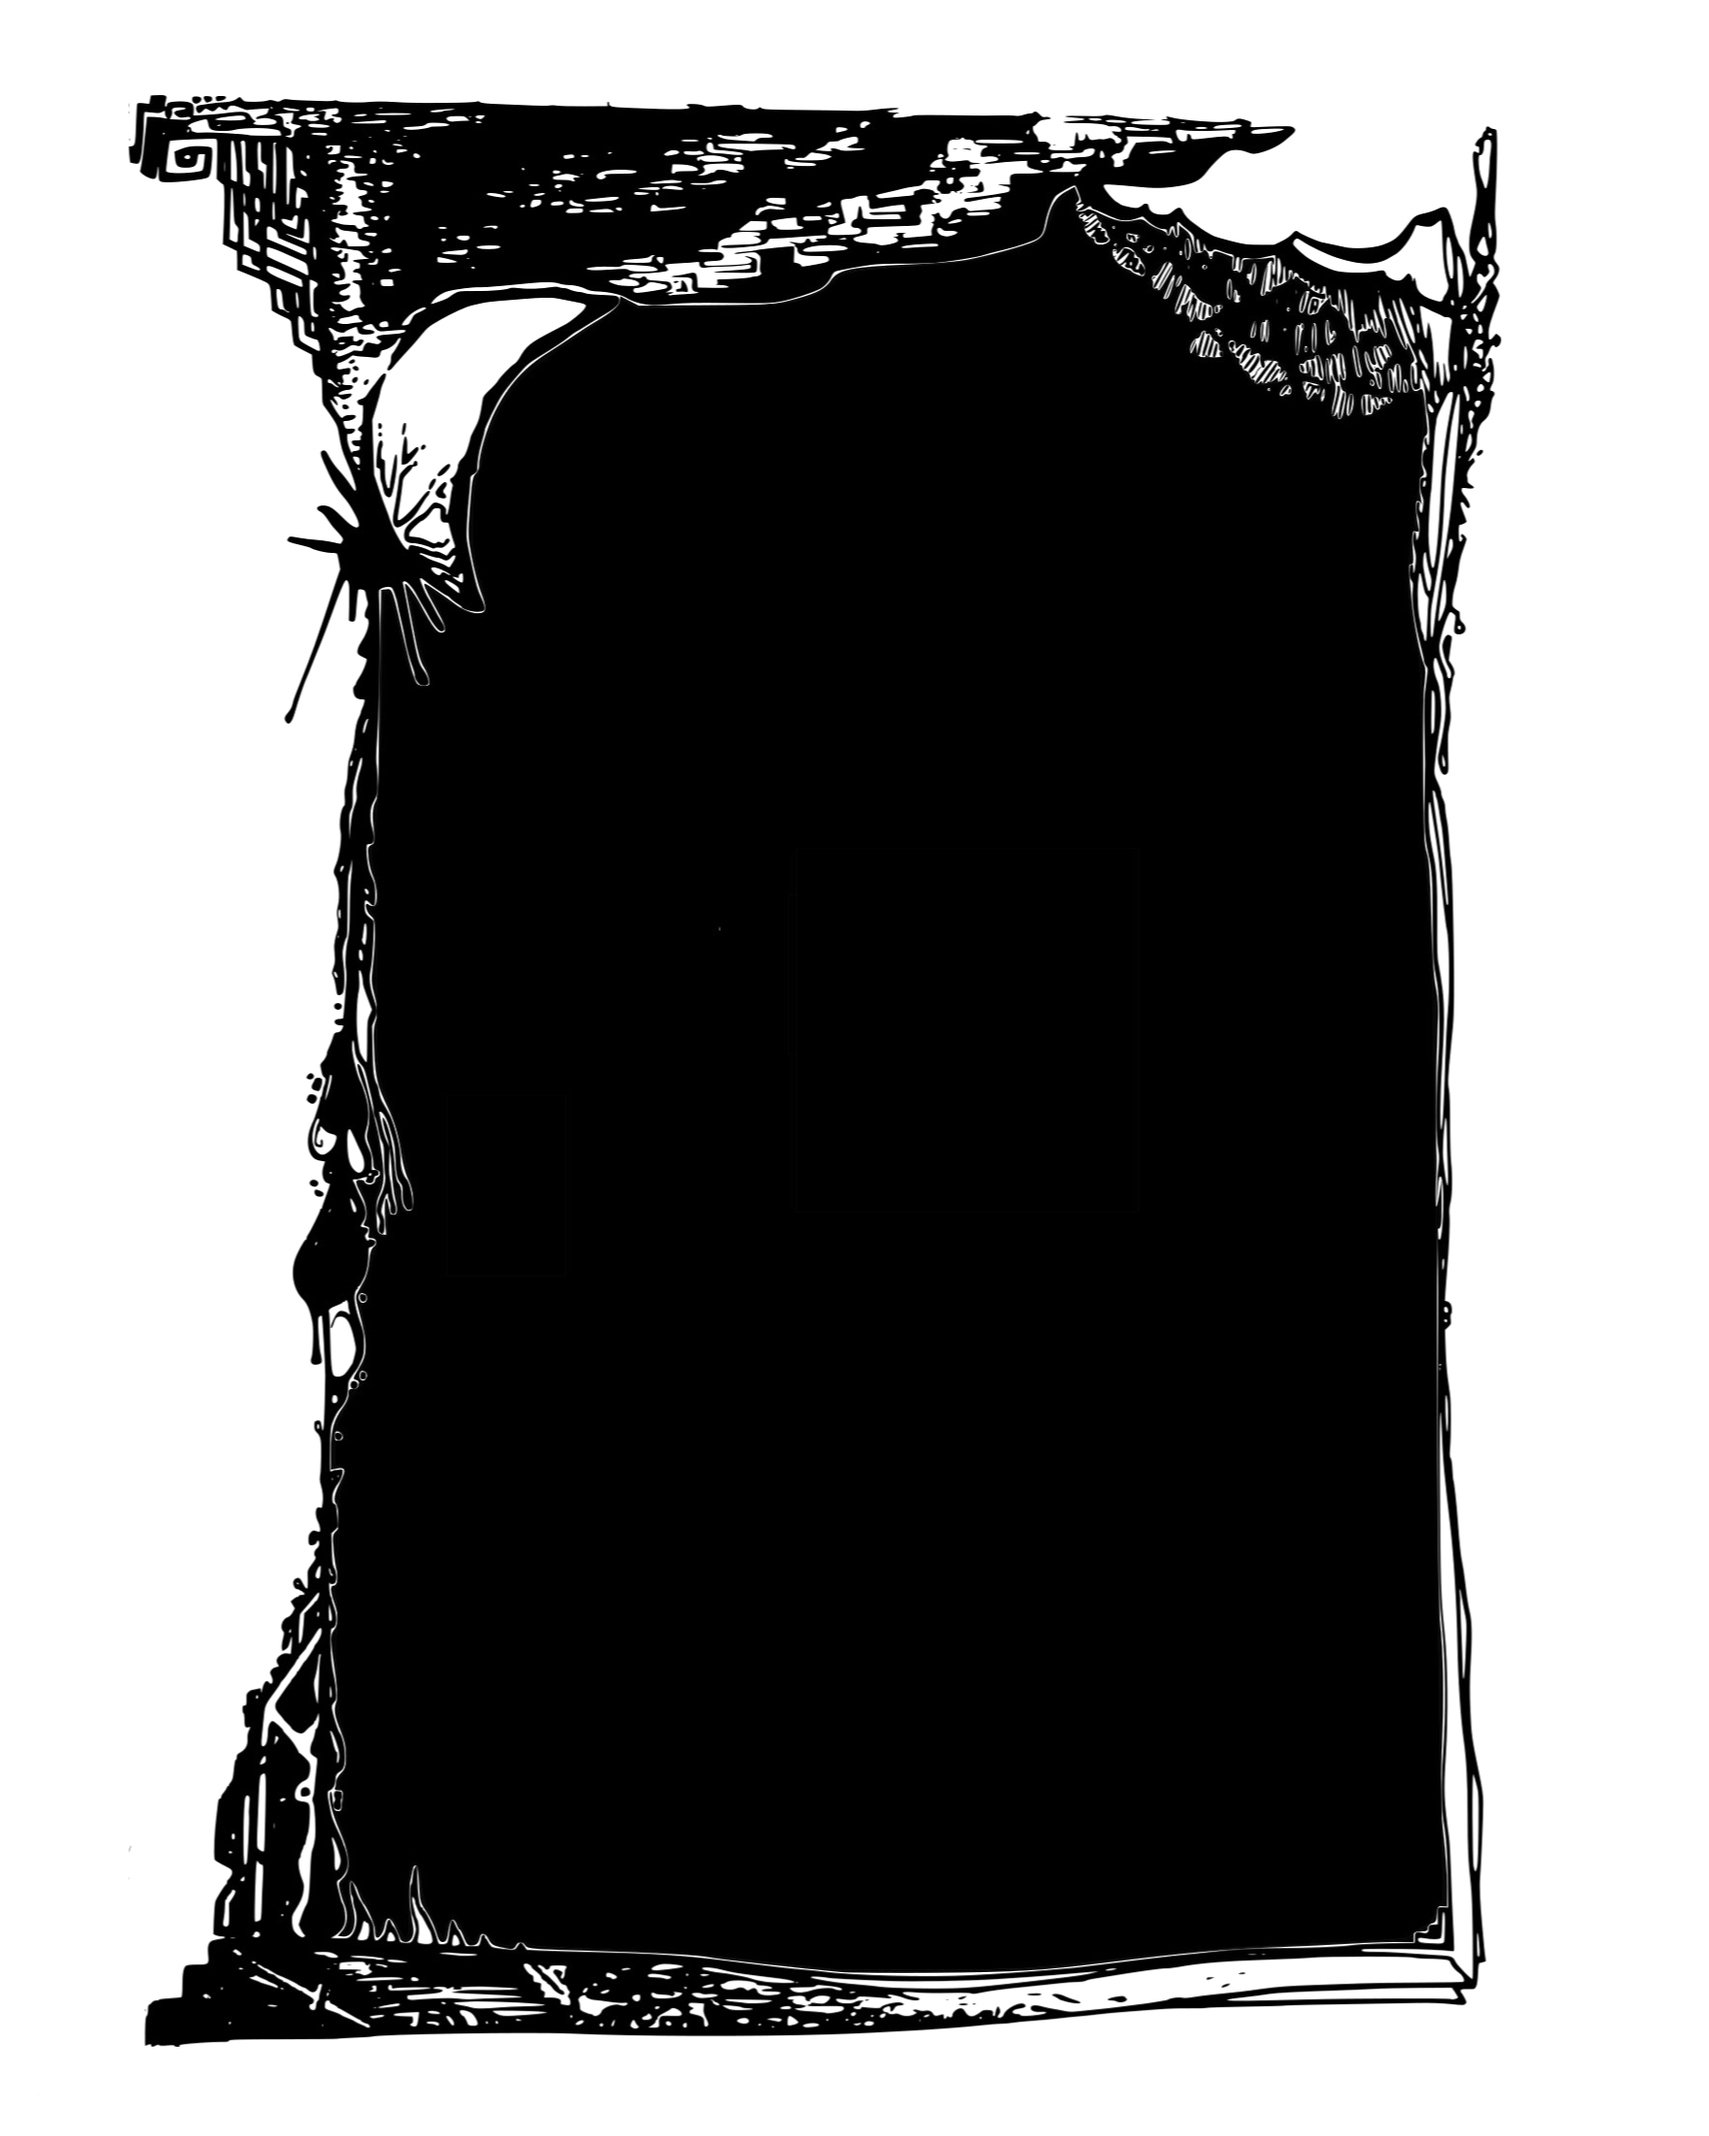
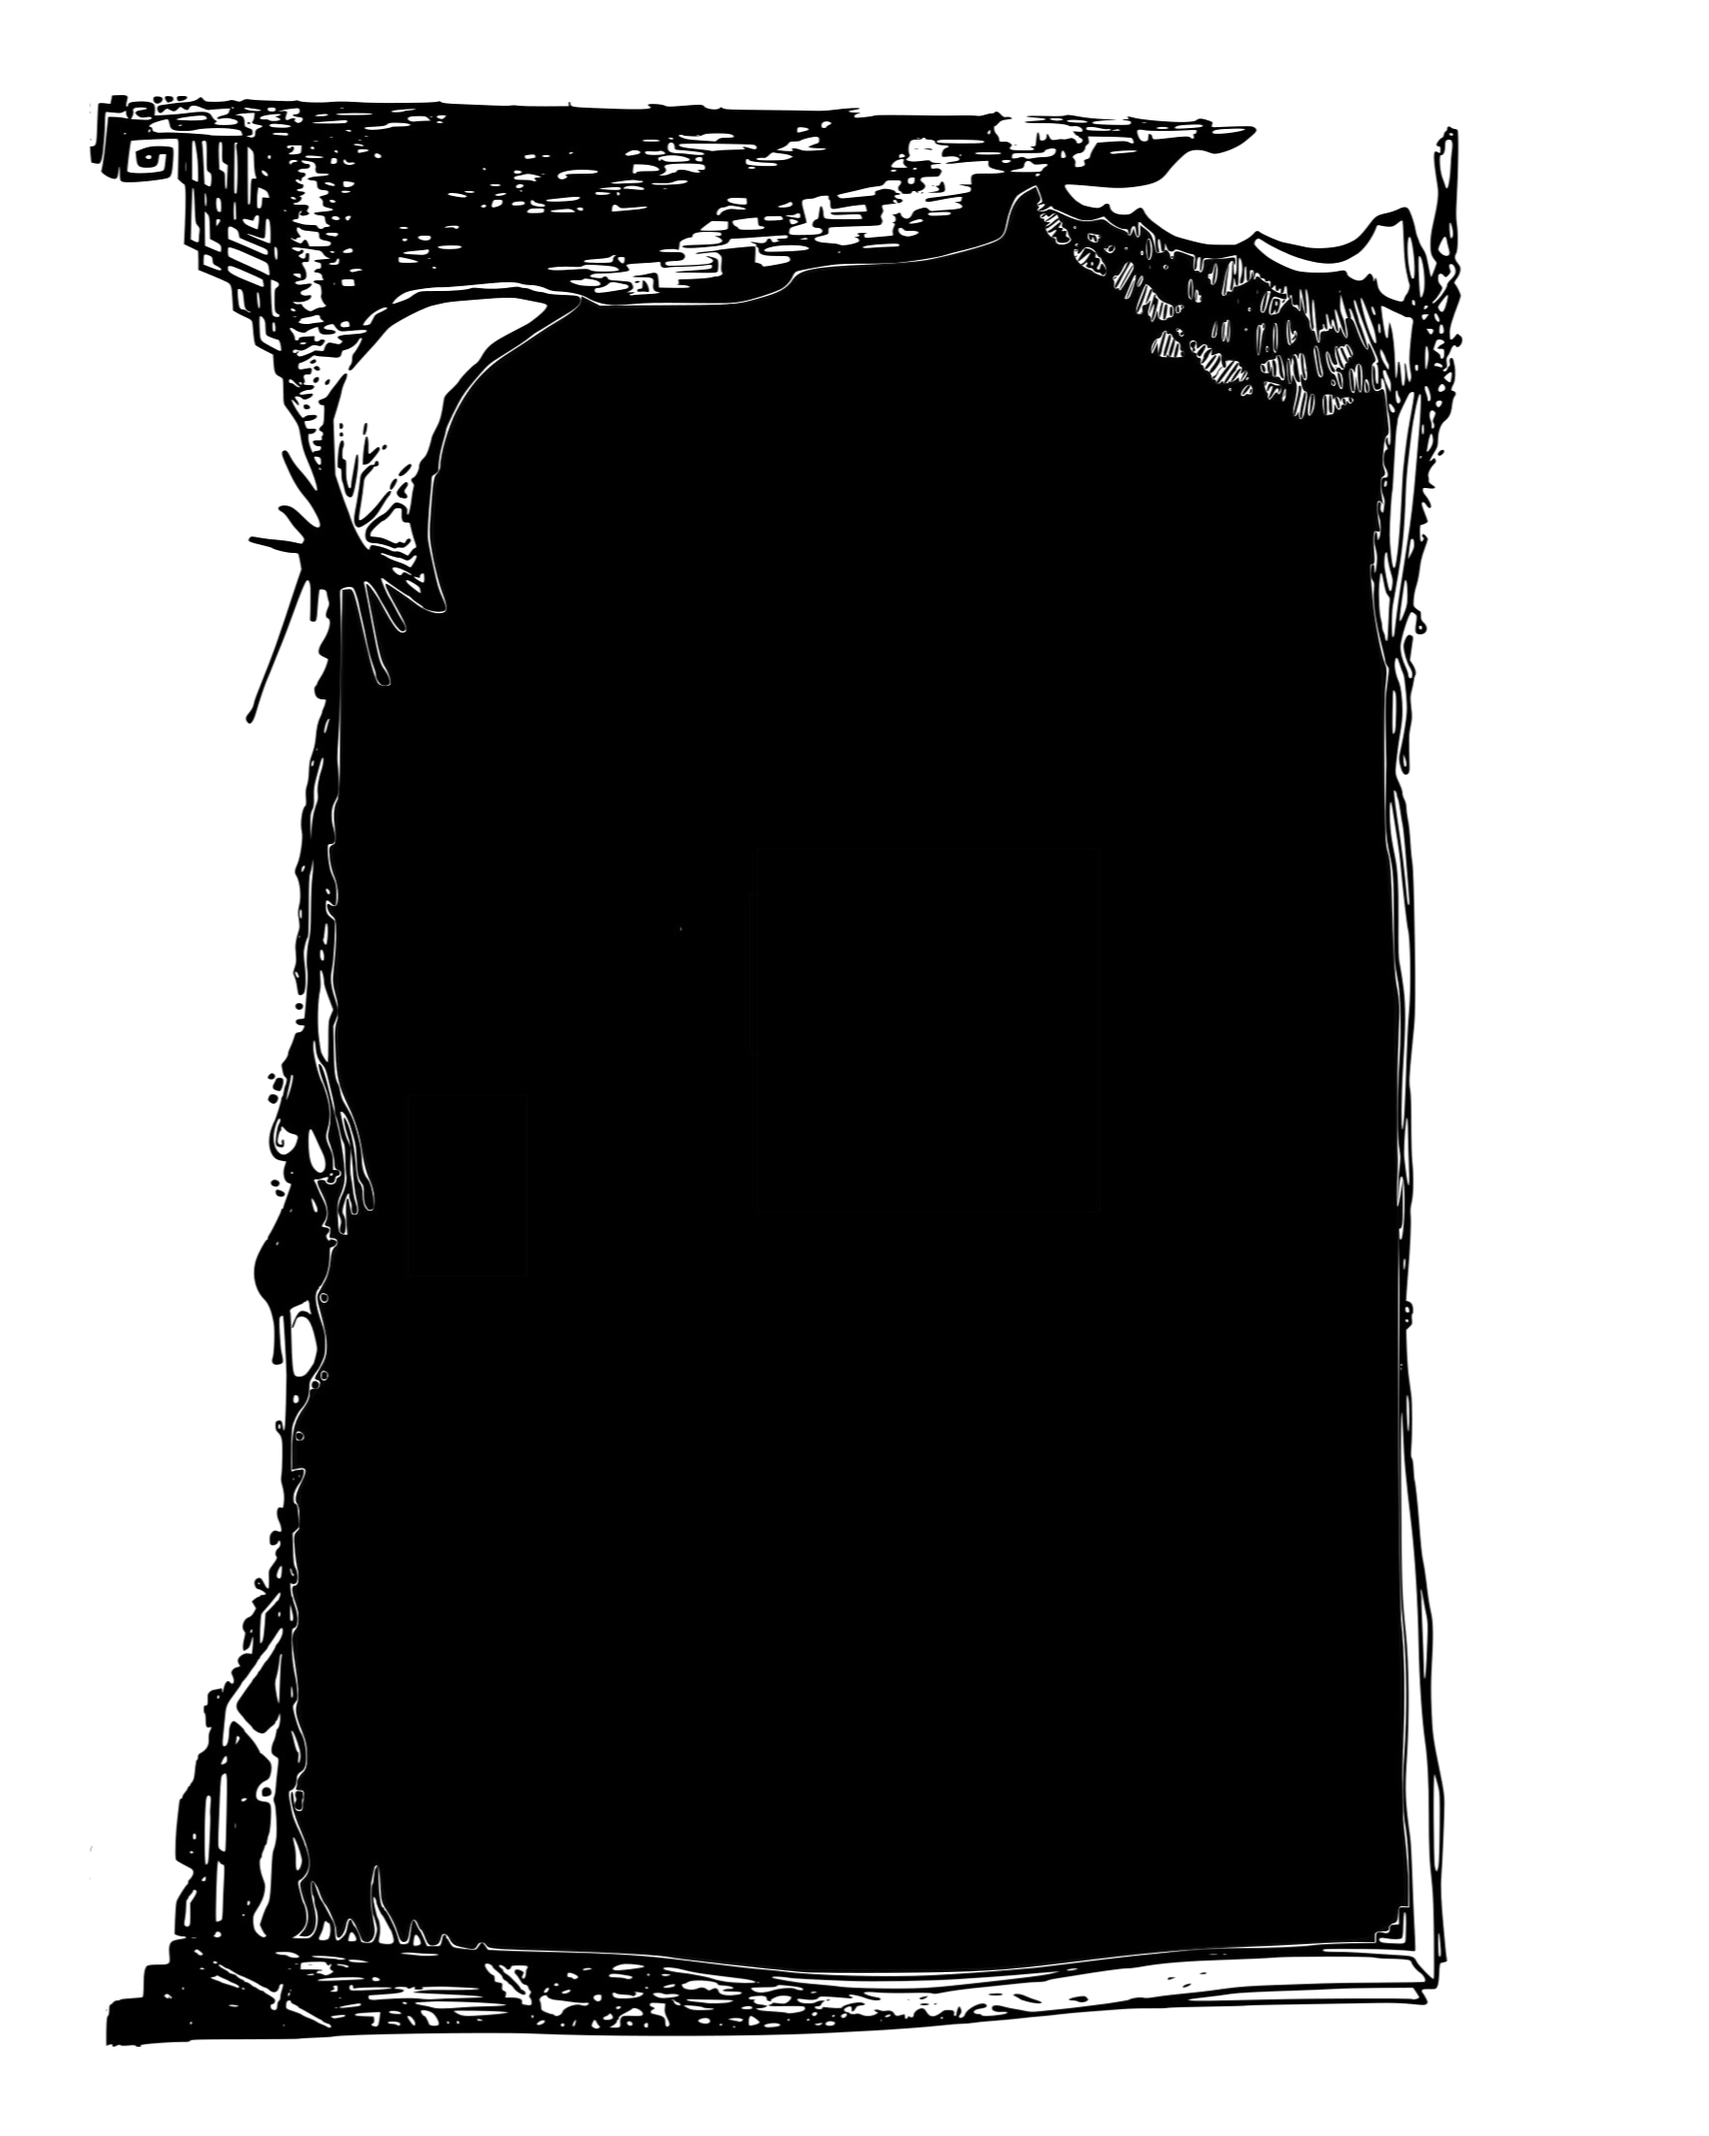
Enlarge flyingx, codex figure, TV; shift audio frame left more
flyingx, the codex corner figure, and the video-page TV drawing
are sized up further. The audio frame artwork shifted another 40px
left so the player has more clearance from the spike decoration,
without touching the player's own position/size.

Changed region(s): [[0.0312, 0.0309, 0.874, 0.9573]]

diff --git a/styles.css b/styles.css
@@ -145,9 +145,9 @@ body.audio-page .frame-page { width: min(96vw, 1350px); }
    mix-blend-mode:multiply - le fond blanc du jpg scanné devient transparent
    (se fond dans la couleur de fond de la page, quelle qu'elle soit) tandis
    que le trait noir reste noir. */
-.codex-figure { position: absolute; left: 15%; bottom: 14%; width: 14%; height: auto; z-index: 1; mix-blend-mode: multiply; }
+.codex-figure { position: absolute; left: 15%; bottom: 14%; width: 16%; height: auto; z-index: 1; mix-blend-mode: multiply; }
 @media (max-width: 640px) {
-  .codex-figure { width: 20%; left: 15%; bottom: 14%; }
+  .codex-figure { width: 23%; left: 15%; bottom: 14%; }
 }
 
 /* les liens de contact doivent toujours tenir sur une seule ligne : une
@@ -177,7 +177,7 @@ body.audio-page .frame-page { width: min(96vw, 1350px); }
   position: relative; width: 100%; max-width: 950px; margin: 0 auto; flex-shrink: 0;
   aspect-ratio: 1762 / 2202;
   border-radius: 6px;
-  background-image: url(audio-frame.png?v=3);
+  background-image: url(audio-frame.png?v=4);
   background-repeat: no-repeat;
   background-size: 100% 100%;
 }
@@ -245,7 +245,7 @@ body.audio-page .frame-page { width: min(96vw, 1350px); }
 @media (min-width: 640px) { .rider-grid { grid-template-columns: 1.3fr 1fr; align-items: start; } }
 .press-byline { text-align: right; color: #555; font-style: italic; font-size: .8rem; margin: 1.5rem 0 0; }
 /* posé sous la fiche technique, dans sa colonne. */
-.flyingx { display: block; width: clamp(80px, 14vw, 160px); height: auto; margin: 2rem auto 0; }
+.flyingx { display: block; width: clamp(92px, 16vw, 184px); height: auto; margin: 2rem auto 0; }
 
 /* page video : silhouettes qui tombent (reprises du dessin de la page
    audio) à gauche, télé (cassée, écran-crâne) serrée à droite avec le lien
@@ -255,7 +255,7 @@ body.audio-page .frame-page { width: min(96vw, 1350px); }
    tombe exactement sur le bord droit du cadre des oiseaux. */
 .video-top-row { width: 100%; max-width: min(90%, 610px); margin: 0 auto; display: flex; align-items: flex-end; justify-content: flex-end; gap: 1.2rem; }
 .video-figures { display: block; width: min(46%, 310px); height: auto; flex-shrink: 0; transform: scaleX(-1); }
-.tv-wrap { display: flex; flex-direction: column; align-items: center; gap: .4rem; width: min(31%, 205px); margin: 0; flex-shrink: 0; }
+.tv-wrap { display: flex; flex-direction: column; align-items: center; gap: .4rem; width: min(36%, 236px); margin: 0; flex-shrink: 0; }
 /* miroir, mais la boîte .tv-wrap garde sa position (bord droit calé sur
    celui du dessin des oiseaux) : seul le dessin à l'intérieur est inversé. */
 .tv-drawing { display: block; width: 100%; height: auto; transform: scaleX(-1); }
@@ -295,7 +295,7 @@ body.audio-page .frame-page { width: min(96vw, 1350px); }
      imposer une max-height sans largeur définie fait s'effondrer sa taille
      (bug constaté : 0x0). Une largeur directe en vw garde le calcul de la
      hauteur (height:auto sur l'image à l'intérieur) simple et fiable. */
-  .tv-wrap { width: 13vw; }
+  .tv-wrap { width: 15vw; }
   .video-figures { width: auto; max-width: 18.5vw; max-height: 22vw; }
   .video-art { max-height: 50vw; }
   .comodoro-art { max-height: 20vw; }

diff --git a/index.html b/index.html
@@ -13,7 +13,7 @@
 <meta property="og:image" content="https://comodorosuleyman.github.io/accueil.jpg">
 <meta name="twitter:card" content="summary_large_image">
 <link rel="icon" type="image/png" href="favicon.png">
-<link rel="stylesheet" href="styles.css?v=73">
+<link rel="stylesheet" href="styles.css?v=74">
 </head>
 <body class="home">
 <h1 class="visually-hidden">Comodoro Süleyman</h1>

diff --git a/comodoro.html b/comodoro.html
@@ -13,7 +13,7 @@
 <meta property="og:image" content="https://comodorosuleyman.github.io/accueil.jpg">
 <meta name="twitter:card" content="summary_large_image">
 <link rel="icon" type="image/png" href="favicon.png">
-<link rel="stylesheet" href="styles.css?v=73">
+<link rel="stylesheet" href="styles.css?v=74">
 </head>
 <body class="comodoro-page">
 <div class="frame-page">

diff --git a/audio.html b/audio.html
@@ -13,7 +13,7 @@
 <meta property="og:image" content="https://comodorosuleyman.github.io/accueil.jpg">
 <meta name="twitter:card" content="summary_large_image">
 <link rel="icon" type="image/png" href="favicon.png">
-<link rel="stylesheet" href="styles.css?v=73">
+<link rel="stylesheet" href="styles.css?v=74">
 </head>
 <body class="audio-page">
 <div class="frame-page">

diff --git a/codex.html b/codex.html
@@ -13,7 +13,7 @@
 <meta property="og:image" content="https://comodorosuleyman.github.io/accueil.jpg">
 <meta name="twitter:card" content="summary_large_image">
 <link rel="icon" type="image/png" href="favicon.png">
-<link rel="stylesheet" href="styles.css?v=73">
+<link rel="stylesheet" href="styles.css?v=74">
 </head>
 <body class="codex-page">
 <div class="frame-page">

diff --git a/argumentum.html b/argumentum.html
@@ -13,7 +13,7 @@
 <meta property="og:image" content="https://comodorosuleyman.github.io/accueil.jpg">
 <meta name="twitter:card" content="summary_large_image">
 <link rel="icon" type="image/png" href="favicon.png">
-<link rel="stylesheet" href="styles.css?v=73">
+<link rel="stylesheet" href="styles.css?v=74">
 </head>
 <body>
 <main class="argumentum-page">

diff --git a/agenda.html b/agenda.html
@@ -13,7 +13,7 @@
 <meta property="og:image" content="https://comodorosuleyman.github.io/accueil.jpg">
 <meta name="twitter:card" content="summary_large_image">
 <link rel="icon" type="image/png" href="favicon.png">
-<link rel="stylesheet" href="styles.css?v=73">
+<link rel="stylesheet" href="styles.css?v=74">
 </head>
 <body>
 <div class="frame-page">

diff --git a/contact.html b/contact.html
@@ -13,7 +13,7 @@
 <meta property="og:image" content="https://comodorosuleyman.github.io/accueil.jpg">
 <meta name="twitter:card" content="summary_large_image">
 <link rel="icon" type="image/png" href="favicon.png">
-<link rel="stylesheet" href="styles.css?v=73">
+<link rel="stylesheet" href="styles.css?v=74">
 </head>
 <body>
 <div class="frame-page">

diff --git a/video.html b/video.html
@@ -13,7 +13,7 @@
 <meta property="og:image" content="https://comodorosuleyman.github.io/accueil.jpg">
 <meta name="twitter:card" content="summary_large_image">
 <link rel="icon" type="image/png" href="favicon.png">
-<link rel="stylesheet" href="styles.css?v=73">
+<link rel="stylesheet" href="styles.css?v=74">
 </head>
 <body>
 <div class="frame-page">
